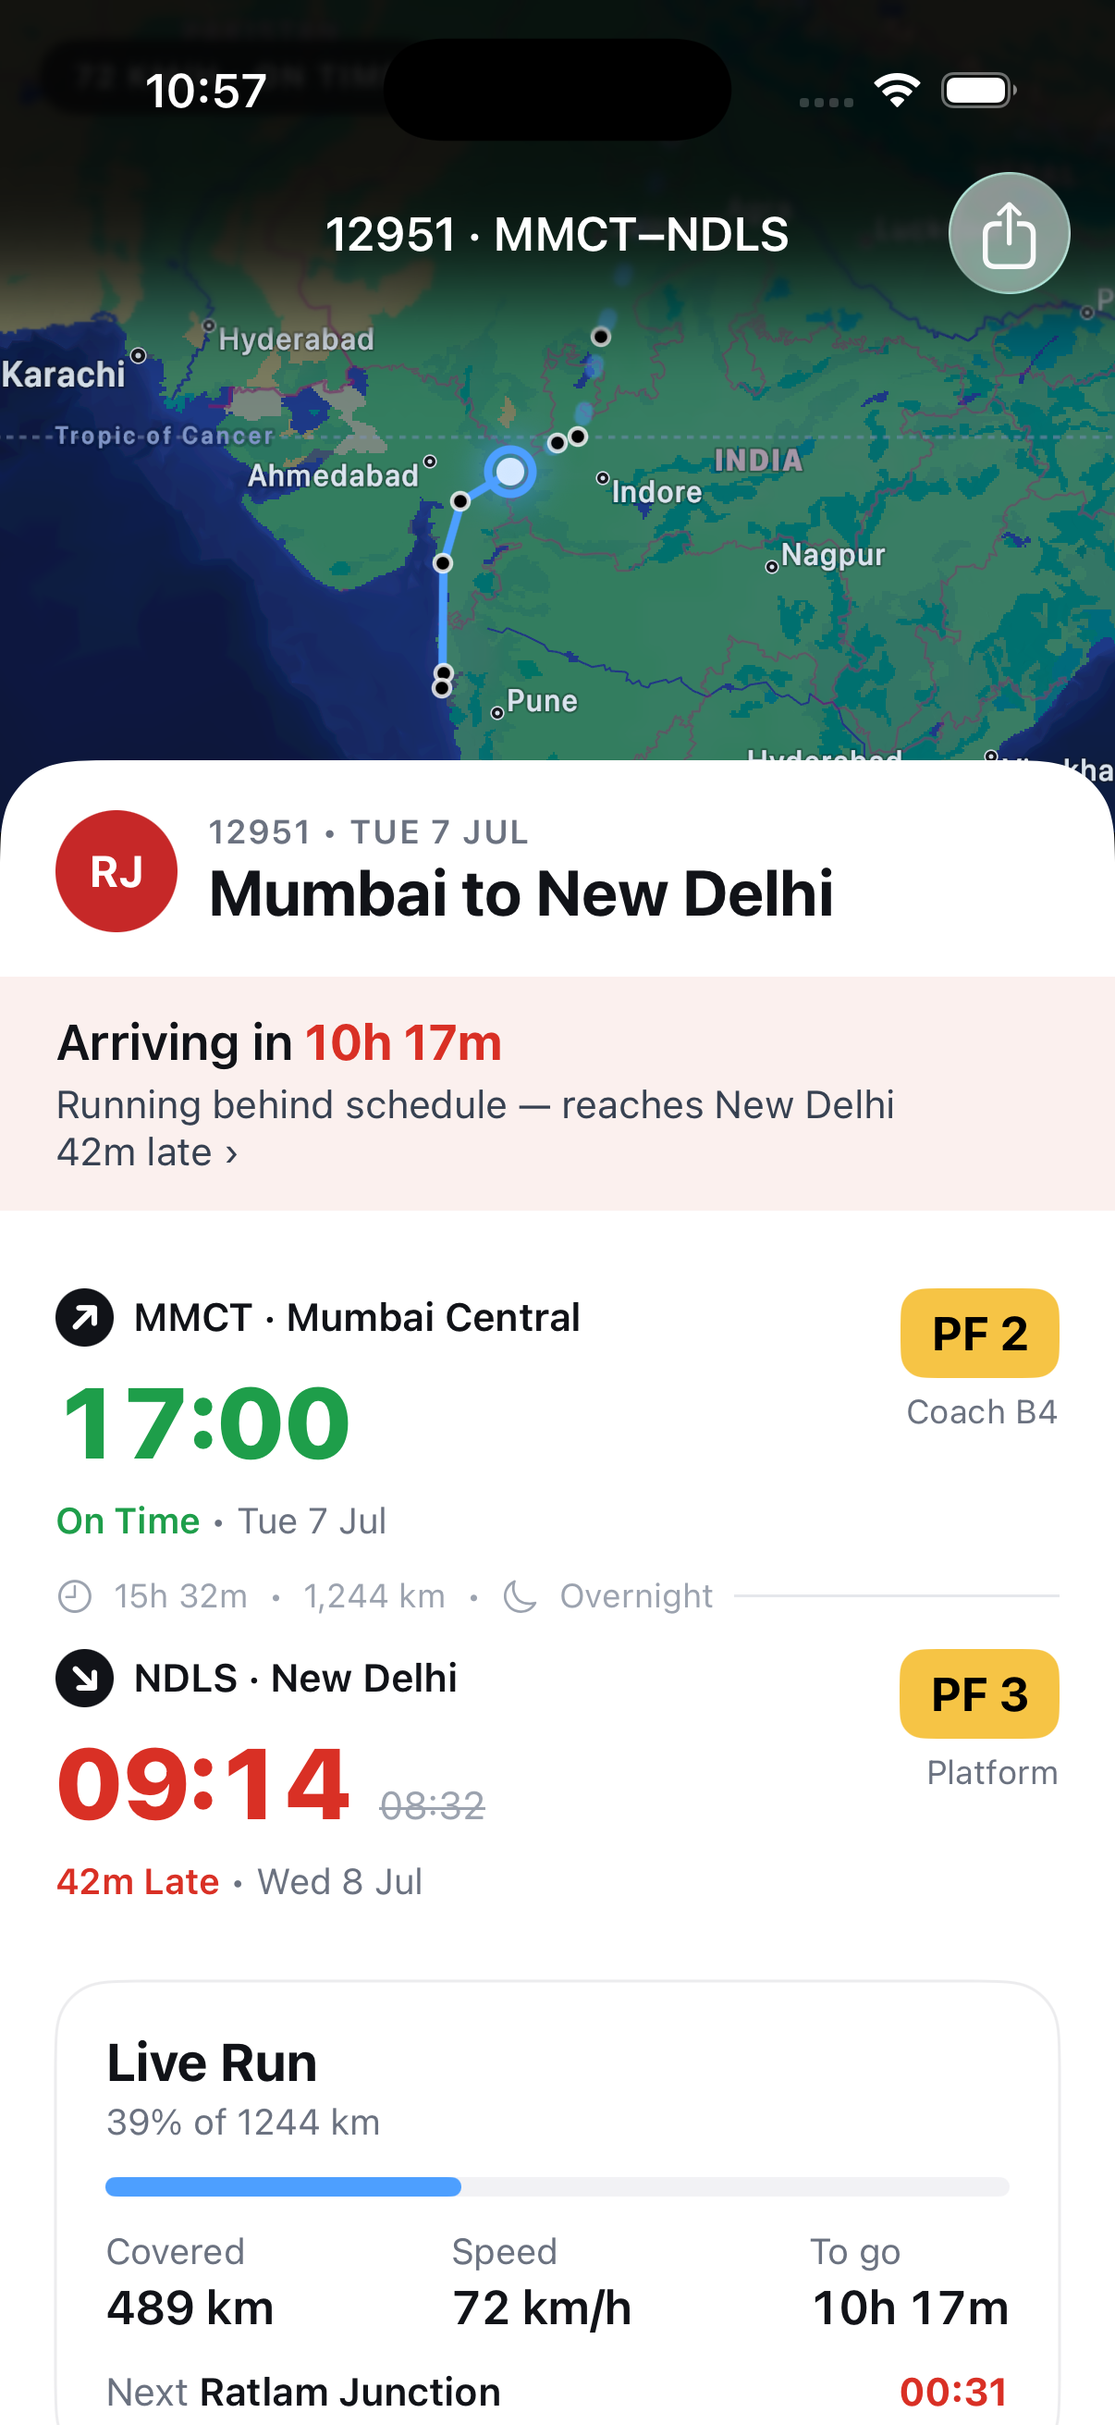
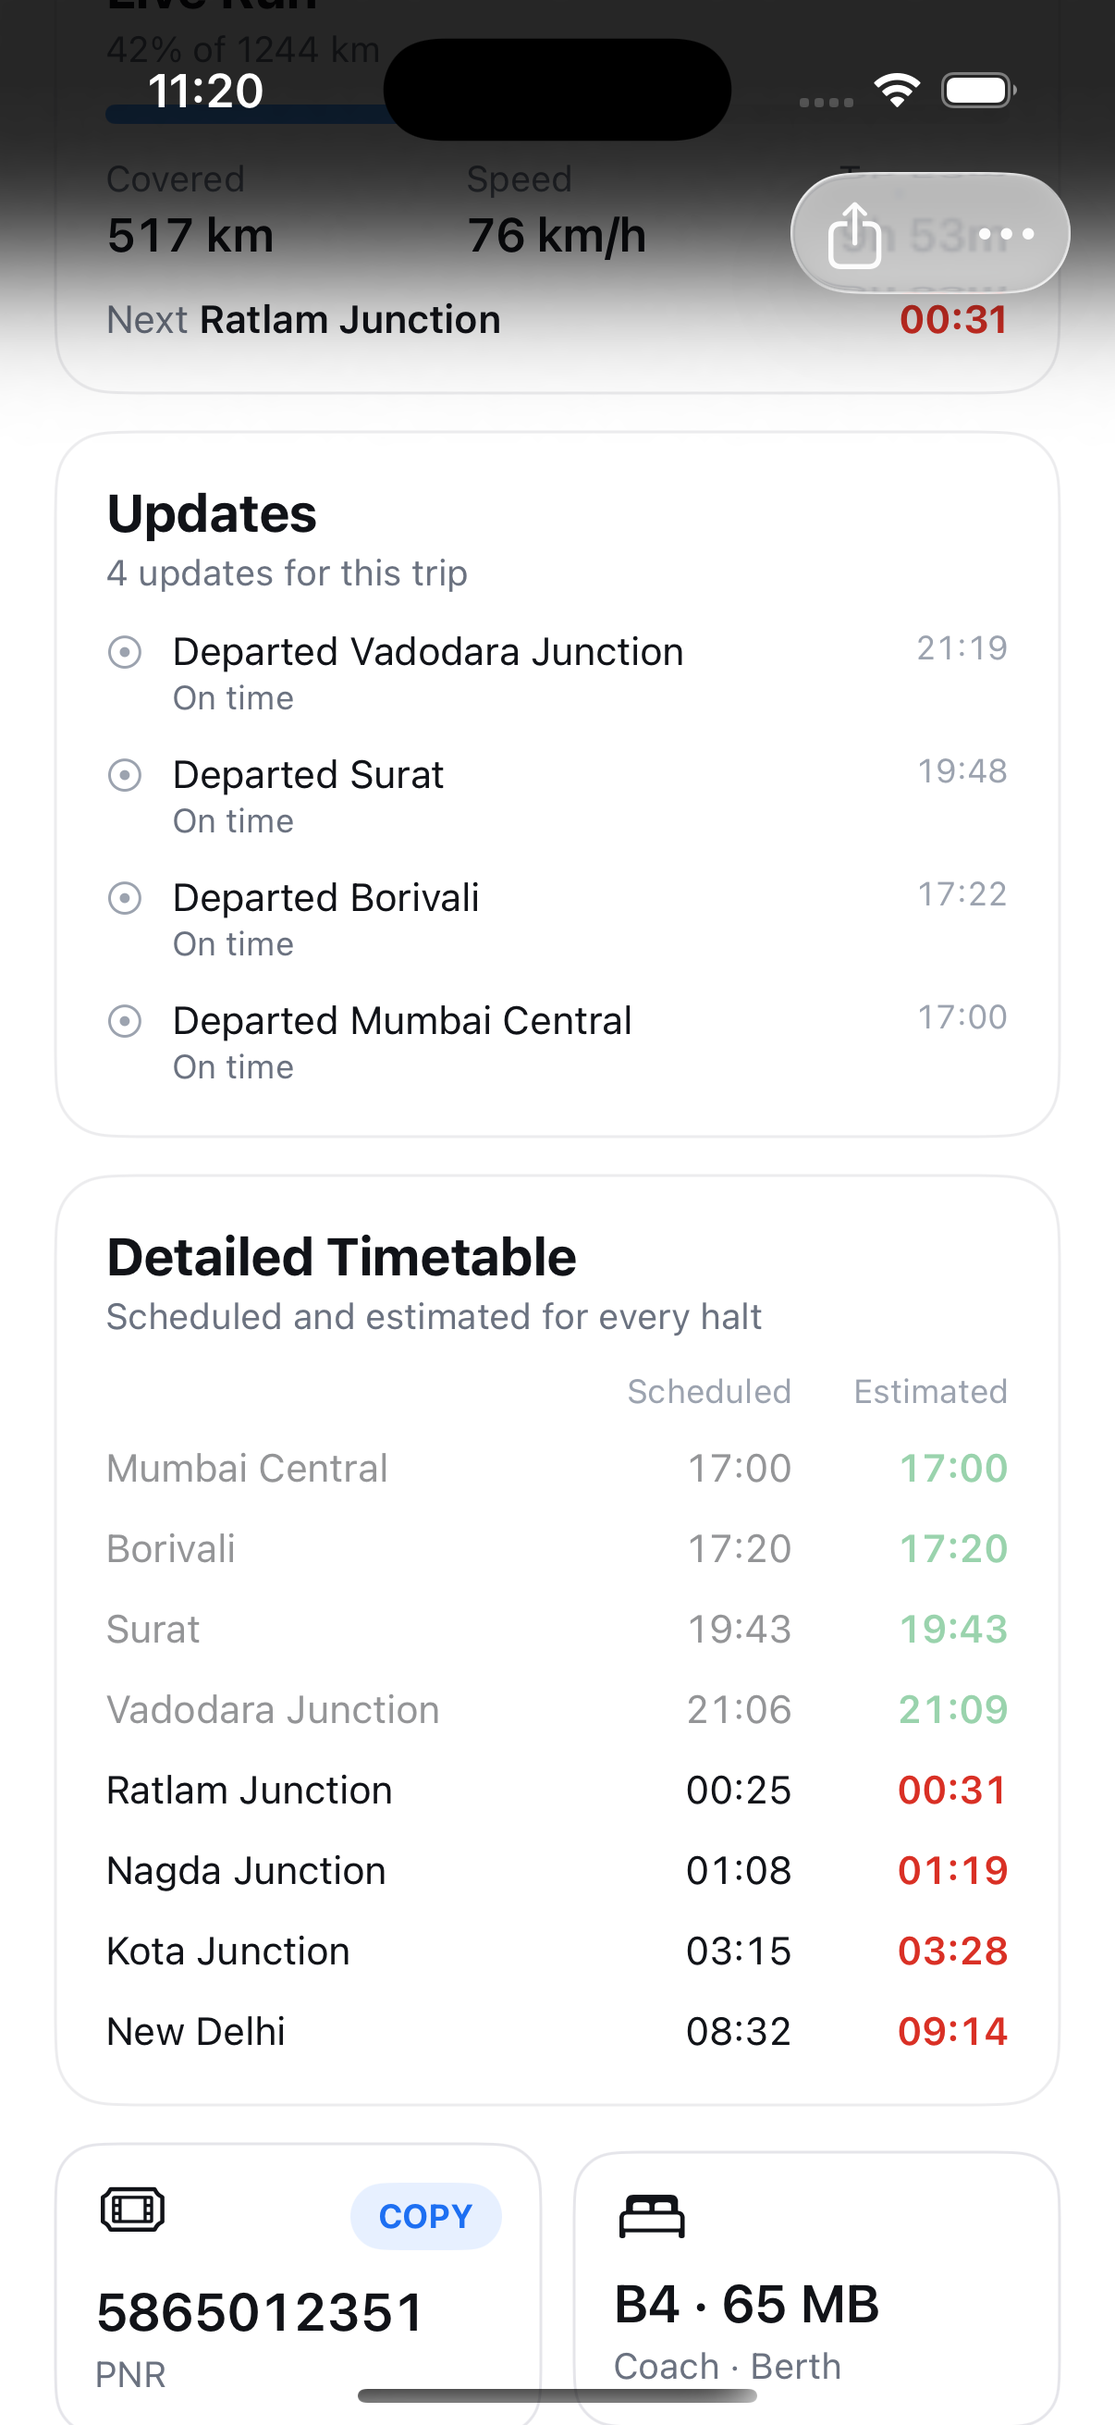
feat(ios): Flighty detail pass from the 119-screenshot study
Applied the top findings from a systematic comparison against the real
Flighty app (Dec 2025 capture):
- One status color per trip row (green on-time / red late / neutral
  gray circles + dark times for far-future / muted past) — endpoints
  no longer read green-dep + red-arr as decoration
- Row metadata is temporal: gray date when >24h out, 'Departs' +
  colored value when imminent, 'Arriving in' only while running;
  labels gray regular, values colored semibold
- Detail map: no title on the map, flighty's top-center telemetry
  capsule (speed · next station), share + ellipsis context menu
  (share / alternate trains / live activity / report / delete)
- Platform badges: direction glyph + PF number, radius 10, gray
  'Platform N' captions; coach moved out of the platform column
- Booking pair: PNR card with blue COPY chip + Coach·Berth card,
  1pt outline, flighty's exact anatomy
- Passport card: lavender #A9A3E8 labels, navy→violet gradient,
  machine-readable-zone strip; split-flap ghost letters legible
- 120pt bottom clearance so rows stop bleeding through the tab pill

diff --git a/ios/Railly/TripDetailView.swift b/ios/Railly/TripDetailView.swift
@@ -161,13 +161,17 @@ private struct EndBlock: View {
             }
             Spacer()
             VStack(alignment: .trailing, spacing: 5) {
-                Text(stop.platform.map { "PF \($0)" } ?? "PF --")
-                    .font(.system(size: 17, weight: .bold))
-                    .foregroundStyle(.black)
-                    .padding(.horizontal, 11)
-                    .padding(.vertical, 6)
-                    .background(Color.gateAmber, in: RoundedRectangle(cornerRadius: 9))
-                Text(isDeparture ? "Coach \(trip.coach)" : "Platform")
+                HStack(spacing: 4) {
+                    Image(systemName: isDeparture ? "arrow.up.right" : "arrow.down.right")
+                        .font(.system(size: 12, weight: .black))
+                    Text(stop.platform.map { "PF\($0)" } ?? "--")
+                        .font(.system(size: 18, weight: .bold))
+                }
+                .foregroundStyle(.black)
+                .padding(.horizontal, 11)
+                .padding(.vertical, 7)
+                .background(Color.gateAmber, in: RoundedRectangle(cornerRadius: 10))
+                Text(stop.platform.map { "Platform \($0)" } ?? "Platform TBA")
                     .font(.system(size: 12))
                     .foregroundStyle(Color.subGray)
             }
@@ -234,19 +238,28 @@ struct TripDetailView: View {
 
         return ScrollView {
             VStack(spacing: 0) {
-                ZStack(alignment: .topLeading) {
+                ZStack(alignment: .top) {
                     TripMapView(live: live)
                         .frame(height: 300)
+                    // flighty's in-flight telemetry capsule, top-center
                     if live.phase == .enroute {
-                        Text("\(live.speedKmh) KM/H · \(live.delayMin > 5 ? "+\(live.delayMin)M" : "ON TIME")")
-                            .font(.system(size: 11, weight: .bold))
-                            .kerning(0.8)
-                            .rollingNumbers(value: "\(live.speedKmh)")
-                            .foregroundStyle(.white)
-                            .padding(.horizontal, 13)
-                            .padding(.vertical, 7)
-                            .background(Color(hex: 0x1C1E22).opacity(0.9), in: Capsule())
-                            .padding(14)
+                        HStack(spacing: 8) {
+                            Image(systemName: "gauge.with.needle")
+                                .font(.system(size: 12, weight: .semibold))
+                            Text("\(live.speedKmh) KM/H")
+                                .rollingNumbers(value: "\(live.speedKmh)")
+                            Rectangle().fill(.white.opacity(0.25)).frame(width: 1, height: 14)
+                            Image(systemName: "tram.fill")
+                                .font(.system(size: 11, weight: .semibold))
+                            Text("NEXT \(live.train.stops[live.nextStopIdx].code)")
+                        }
+                        .font(.system(size: 13, weight: .semibold))
+                        .kerning(0.4)
+                        .foregroundStyle(.white)
+                        .padding(.horizontal, 14)
+                        .padding(.vertical, 8)
+                        .background(Color(hex: 0x1C1E22).opacity(0.88), in: Capsule())
+                        .padding(.top, 104)
                     }
                 }
 
@@ -314,11 +327,33 @@ struct TripDetailView: View {
         .scrollIndicators(.hidden)
         .background(Color.black)
         .ignoresSafeArea(edges: .top)
-        .mapDetailBar(title: "\(train.number) · \(train.origin.code)–\(train.destination.code)")
+        .mapDetailBar(title: "")
         .toolbar {
             ToolbarItem(placement: .primaryAction) {
                 ShareLink(item: shareSummary(trip)) {
                     Image(systemName: "square.and.arrow.up")
+                }
+            }
+            ToolbarItem(placement: .primaryAction) {
+                Menu {
+                    ShareLink(item: shareSummary(trip)) {
+                        Label("Share Trip", systemImage: "square.and.arrow.up")
+                    }
+                    Button {} label: {
+                        Label("Alternate Trains", systemImage: "arrow.triangle.branch")
+                    }
+                    Button {} label: {
+                        Label("Live Activity — On", systemImage: "bolt.fill")
+                    }
+                    Divider()
+                    Button {} label: {
+                        Label("Report Data Issue", systemImage: "exclamationmark.bubble")
+                    }
+                    Button(role: .destructive) {} label: {
+                        Label("Delete Trip", systemImage: "trash")
+                    }
+                } label: {
+                    Image(systemName: "ellipsis")
                 }
             }
         }
@@ -459,12 +494,53 @@ struct TripDetailView: View {
     }
 
     private func booking(_ trip: HeldTrip) -> some View {
-        SectionCard(title: "My Booking") {
-            HStack {
-                stat(trip.pnr, "PNR")
-                Spacer()
-                stat("\(trip.coach) · \(trip.seat)", "Coach · Seat")
+        HStack(spacing: 12) {
+            bookingCard(icon: "ticket", value: trip.pnr, caption: "PNR") {
+                #if os(iOS)
+                UIPasteboard.general.string = trip.pnr
+                #endif
             }
+            bookingCard(icon: "bed.double", value: "\(trip.coach) · \(trip.seat)",
+                        caption: "Coach · Berth", copyAction: nil)
         }
+    }
+
+    /// flighty's booking-code card: outline, icon, value, and a blue COPY chip.
+    private func bookingCard(icon: String, value: String, caption: String,
+                             copyAction: (() -> Void)?) -> some View {
+        VStack(alignment: .leading, spacing: 3) {
+            HStack(alignment: .top) {
+                Image(systemName: icon)
+                    .font(.system(size: 19))
+                    .foregroundStyle(Color.inkline)
+                Spacer()
+                if let copyAction {
+                    Button(action: copyAction) {
+                        Text("COPY")
+                            .font(.system(size: 12, weight: .bold))
+                            .foregroundStyle(Color(hex: 0x1D6FF2))
+                            .padding(.horizontal, 10)
+                            .padding(.vertical, 5)
+                            .background(Color(hex: 0xE7F0FF), in: Capsule())
+                    }
+                    .buttonStyle(.plain)
+                }
+            }
+            Text(value)
+                .font(.system(size: 19, weight: .semibold))
+                .foregroundStyle(Color.inkline)
+                .monospacedDigit()
+                .padding(.top, 8)
+            Text(caption)
+                .font(.system(size: 13))
+                .foregroundStyle(Color.subGray)
+        }
+        .frame(maxWidth: .infinity, alignment: .leading)
+        .padding(14)
+        .background(
+            RoundedRectangle(cornerRadius: 16)
+                .fill(.white)
+                .stroke(Color(hex: 0xE5E5EA), lineWidth: 1)
+        )
     }
 }

diff --git a/ios/Railly/TripRowView.swift b/ios/Railly/TripRowView.swift
@@ -2,19 +2,38 @@ import SwiftUI
 
 /// One journey, one dense line — the Dec 2025 Flighty row anatomy.
 
+/// Flighty's rule: ONE status color per trip, not per endpoint. Green when
+/// running on time, red when late (or completed rows, muted), and neutral
+/// gray circles with plain dark times for far-future scheduled trips.
 private enum Tone {
-    case ontime, late, muted
+    case neutral, ontime, late, muted
 
-    var color: Color {
+    var circleFill: Color {
         switch self {
+        case .neutral: return Color(hex: 0xD8D8DC)
         case .ontime: return .onTime
         case .late: return .lateRed
         case .muted: return .fadedGray
         }
     }
+
+    var codeColor: Color {
+        switch self {
+        case .neutral: return Color(hex: 0x8E8E93)
+        case .muted: return Color.fadedGray.opacity(0.8)
+        default: return circleFill.opacity(0.8)
+        }
+    }
+
+    var timeColor: Color {
+        switch self {
+        case .neutral: return .inkline
+        default: return circleFill
+        }
+    }
 }
 
-/// The colored dep/arr cell — the whole cluster inherits status color.
+/// The dep/arr cell — the whole cluster inherits the trip's status color.
 private struct TimeCell: View {
     let isDeparture: Bool
     let code: String
@@ -28,15 +47,15 @@ private struct TimeCell: View {
                 .font(.system(size: 9, weight: .black))
                 .foregroundStyle(.white)
                 .frame(width: 18, height: 18)
-                .background(tone.color, in: Circle())
+                .background(tone.circleFill, in: Circle())
             Text(code)
                 .font(.system(size: 15, weight: .semibold))
-                .foregroundStyle(tone.color.opacity(0.8))
+                .foregroundStyle(tone.codeColor)
             (Text(fmtTime(time)).font(.system(size: 16, weight: .bold))
                 + Text(nextDay ? "+1" : "")
                 .font(.system(size: 10, weight: .bold))
                 .baselineOffset(6))
-                .foregroundStyle(tone.color)
+                .foregroundStyle(tone.timeColor)
                 .monospacedDigit()
         }
     }
@@ -109,27 +128,29 @@ private struct StatusText: View {
         let late = live.delayMin > 5
         switch live.phase {
         case .enroute:
-            // color by the destination forecast, same rule as the detail banner
+            // gray regular label + colored semibold value, flighty-style
             let arrLate = live.stopTimings[live.stopTimings.count - 1].delayMin > 5
             let remaining = fmtDuration(max(0, live.arrivesEst.timeIntervalSince(now) / 60))
-            Text("Arriving in \(remaining)")
-                .font(.system(size: 14, weight: .bold))
+            (Text("Arriving in ").foregroundStyle(Color.subGray)
+                + Text(remaining)
                 .foregroundStyle(arrLate ? Color.lateRed : Color.onTime)
+                .fontWeight(.semibold))
+                .font(.system(size: 14))
                 .rollingNumbers(value: remaining)
         case .arrived:
             Text(fmtDay(live.arrivesEst))
                 .font(.system(size: 14))
                 .foregroundStyle(Color.fadedGray)
         case .boarding, .scheduled:
-            if live.departsAt.timeIntervalSince(now) > 36 * 3600 {
+            if live.departsAt.timeIntervalSince(now) > 24 * 3600 {
                 Text(fmtDay(live.departsAt))
                     .font(.system(size: 14))
-                    .foregroundStyle(Color.fadedGray)
+                    .foregroundStyle(Color.subGray)
             } else {
                 (Text("Departs ").foregroundStyle(Color.subGray)
                     + Text(late ? "\(live.delayMin)m late" : "On Time")
                     .foregroundStyle(late ? Color.lateRed : Color.onTime)
-                    .fontWeight(.bold))
+                    .fontWeight(.semibold))
                     .font(.system(size: 14))
             }
         }
@@ -146,8 +167,15 @@ struct TripRowView: View {
         let depT = trip.live.stopTimings[0]
         let arrT = trip.live.stopTimings[train.stops.count - 1]
         let isPast = trip.live.phase == .arrived
-        let depTone: Tone = isPast ? .muted : depT.delayMin > 5 ? .late : .ontime
-        let arrTone: Tone = isPast ? .muted : arrT.delayMin > 5 ? .late : .ontime
+        // one tone for the whole row: muted past, neutral far-future,
+        // otherwise green/red by the destination forecast
+        let farFuture = trip.live.departsAt.timeIntervalSince(now) > 24 * 3600
+            && trip.live.phase == .scheduled
+        let tone: Tone = isPast ? .muted
+            : farFuture ? .neutral
+            : arrT.delayMin > 5 ? .late : .ontime
+        let depTone = tone
+        let arrTone = tone
 
         HStack(alignment: .top, spacing: 8) {
             Rail(trip: trip, now: now)

diff --git a/ios/Railly/LogbookView.swift b/ios/Railly/LogbookView.swift
@@ -21,7 +21,7 @@ private struct SplitFlap: View {
                         .frame(height: 1.5)
                     Text(String(ch))
                         .font(.system(size: 34, weight: .bold))
-                        .foregroundStyle(Color(hex: 0xFDF3E7).opacity(ghost ? 0.3 : 1))
+                        .foregroundStyle(ghost ? Color.white.opacity(0.32) : Color(hex: 0xFDF3E7))
                 }
                 .frame(width: 44, height: 62)
             }
@@ -60,20 +60,20 @@ private struct PassportCard: View {
             Text("PASSPORT • PASS • पासपोर्ट")
                 .font(.system(size: 11, weight: .semibold))
                 .kerning(1.4)
-                .foregroundStyle(Color(hex: 0x8B7BC4))
+                .foregroundStyle(Color(hex: 0xA9A3E8))
                 .padding(.top, 3)
 
             Text("DISTANCE")
                 .font(.system(size: 11, weight: .bold)).kerning(1)
-                .foregroundStyle(Color(hex: 0xA79BD6))
+                .foregroundStyle(Color(hex: 0xA9A3E8))
                 .padding(.top, 22)
             (Text("28,412 ").font(.system(size: 38, weight: .heavy))
                 + Text("km").font(.system(size: 24, weight: .semibold))
-                .foregroundStyle(Color(hex: 0xA79BD6)))
+                .foregroundStyle(Color(hex: 0xA9A3E8)))
                 .foregroundStyle(.white)
             Text("0.71x around the world")
                 .font(.system(size: 13))
-                .foregroundStyle(Color(hex: 0xA79BD6))
+                .foregroundStyle(Color(hex: 0xA9A3E8))
 
             HStack(spacing: 34) {
                 passportStat("TRIPS", "47", sub: "12 overnight")
@@ -86,6 +86,21 @@ private struct PassportCard: View {
             }
             .padding(.top, 14)
 
+            // machine-readable zone, like the real passport page
+            VStack(alignment: .leading, spacing: 2) {
+                Rectangle()
+                    .fill(Color(hex: 0xA9A3E8).opacity(0.35))
+                    .frame(height: 1)
+                    .padding(.bottom, 8)
+                Text("ALLTIME<<YASH<L<<MEMBER<<RAILLY<<<<<<<<<<<")
+                Text("0707202647TRIPS28412KM<<<<214H<<38STN<<8TRN")
+            }
+            .font(.system(size: 11, weight: .medium, design: .monospaced))
+            .foregroundStyle(.white.opacity(0.55))
+            .kerning(1.2)
+            .lineLimit(1)
+            .padding(.top, 18)
+
             StatsButton(label: "All Trip Stats")
         }
         .frame(maxWidth: .infinity, alignment: .leading)
@@ -93,7 +108,7 @@ private struct PassportCard: View {
         .background(
             RoundedRectangle(cornerRadius: 24)
                 .fill(LinearGradient(
-                    colors: [Color(hex: 0x2A1052), Color(hex: 0x1B2E7A)],
+                    colors: [Color(hex: 0x14104B), Color(hex: 0x5A3FD6)],
                     startPoint: .topLeading, endPoint: .bottomTrailing
                 ))
         )
@@ -103,12 +118,12 @@ private struct PassportCard: View {
         VStack(alignment: .leading, spacing: 2) {
             Text(label)
                 .font(.system(size: 11, weight: .bold)).kerning(1)
-                .foregroundStyle(Color(hex: 0xA79BD6))
+                .foregroundStyle(Color(hex: 0xA9A3E8))
             Text(value)
                 .font(.system(size: 25, weight: .bold))
                 .foregroundStyle(.white)
             if let sub {
-                Text(sub).font(.system(size: 12)).foregroundStyle(Color(hex: 0xA79BD6))
+                Text(sub).font(.system(size: 12)).foregroundStyle(Color(hex: 0xA9A3E8))
             }
         }
     }
@@ -226,7 +241,7 @@ struct LogbookView: View {
                     }
                     .padding(.horizontal, 20)
                     .padding(.top, 16)
-                    .padding(.bottom, 40)
+                    .padding(.bottom, 120)
                 }
                 .background(Color.white)
             }

diff --git a/ios/Railly/TrackView.swift b/ios/Railly/TrackView.swift
@@ -54,7 +54,7 @@ struct TrackView: View {
                     }
                     .padding(.horizontal, 20)
                     .padding(.top, 16)
-                    .padding(.bottom, 40)
+                    .padding(.bottom, 120)
                 }
                 .scrollIndicators(.hidden)
                 .refreshable {

diff --git a/ios/Railly/MyTripsView.swift b/ios/Railly/MyTripsView.swift
@@ -145,7 +145,7 @@ struct MyTripsView: View {
             }
         }
         .padding(.horizontal, 20)
-        .padding(.bottom, 40)
+        .padding(.bottom, 120)
     }
 
     @ViewBuilder
